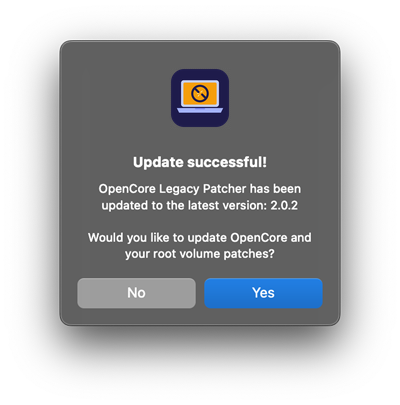
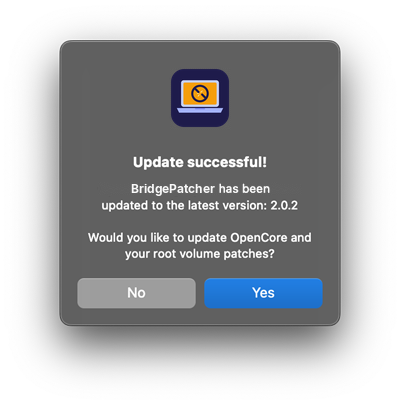
Remove Apple's wallpapers and Dortania's app name from images; OCR check in License Guard
Images:
- macos-monterey/ventura/sonoma/macos-sequoia/macos-tahoe: Apple's wallpaper banners
  replaced with own artwork (generated gradients, Inter font), same sizes.
- 16 screenshots/banners: "OpenCore Legacy Patcher (T2)" -> "BridgePatcher"
  (support banners, installer/permission/update dialogs, root patch dialog,
  main menu help text). Copyright lines are left untouched on purpose.

License Guard:
- New OCR check (tesseract): an image that shows "OpenCore Legacy Patcher"
  is a violation. Lines with a copyright notice are skipped (the upstream
  notice must stay); technical names without spaces (OCLP-Version,
  OpenCore-Legacy-Patcher repo/folder, URLs) are not matched.
- Workflow installs tesseract-ocr; OCR/artwork results are cached per blob
  with actions/cache so later runs only scan new or changed images.

Changed region(s): [[0.24, 0.4444, 0.75, 0.5037]]

diff --git a/.github/scripts/license_guard.py b/.github/scripts/license_guard.py
@@ -227,6 +227,66 @@ def find_embedded(data, known_bits):
     return {k: (d, round(sz / scale), round(x / scale), round(y / scale)) for k, (d, sz, x, y) in best.items()}
 
 
+# The upstream app's NAME shown inside an image (screenshots of Dortania's app, banners):
+# "OpenCore Legacy Patcher" (also "... T2" / "...-T2"). Found with OCR (tesseract), so it only runs
+# where tesseract is installed. Lines with a copyright notice are skipped on purpose - the upstream
+# notice ("Copyright © 2020-2026 Dortania and OpenCore Legacy Patcher contributors") must stay.
+# Technical identifiers written without spaces (OCLP-Version, OpenCore-Legacy-Patcher repo/folder,
+# Dortania's URLs) are not matched: they are literal names, not the product name.
+IMG_NAME_RE = re.compile(r"(?i)\bOpen\s?Core\s+Legacy\s+Patcher\b")
+IMG_NAME_WRAP = (re.compile(r"(?i)\bOpen\s?Core(\s+Legacy)?\s*$"), re.compile(r"(?i)^\s*(Legacy\s+)?Patcher\b"))
+IMG_COPYRIGHT_RE = re.compile(r"(?i)(©|\(c\))\s*\d|copyright|contributors")
+OCR_VERSION = 1   # bump to invalidate cached OCR results after changing the OCR settings
+
+
+def ocr_lines(data):
+    """Text lines in an image (normal + inverted pass, so light-on-dark text is read too)."""
+    from PIL import Image, ImageOps
+    with Image.open(io.BytesIO(data)) as im:
+        im.load()
+        im = im.convert("RGBA")
+    base = Image.new("RGBA", im.size, (255, 255, 255, 255))
+    base.alpha_composite(im)   # translucent dialogs: read them as shown on a light page
+    g = base.convert("L")
+    s = 3 if max(g.size) <= 1200 else 2 if max(g.size) <= 1800 else 1   # small UI text needs upscaling
+    if s > 1:
+        g = g.resize((g.width * s, g.height * s), Image.LANCZOS)
+    passes = []
+    for img in (g, ImageOps.invert(g)):
+        buf = io.BytesIO()
+        img.save(buf, "PNG")
+        r = subprocess.run(["tesseract", "stdin", "stdout", "--psm", "11", "tsv"], input=buf.getvalue(),
+                           capture_output=True, env={**os.environ, "OMP_THREAD_LIMIT": "1"})
+        lines = {}
+        for row in r.stdout.decode("utf-8", "replace").splitlines()[1:]:
+            c = row.split("\t")
+            if len(c) == 12 and c[0] == "5" and c[11].strip() and float(c[10]) > 0:
+                lines.setdefault((int(c[2]), int(c[3]), int(c[4])), []).append(c[11].strip())
+        passes.append([" ".join(v) for _, v in sorted(lines.items())])
+    return passes
+
+
+def find_old_name_in_image(passes):
+    hits = []
+    for lines in passes:
+        for i, line in enumerate(lines):
+            if IMG_COPYRIGHT_RE.search(line):
+                continue
+            nxt = lines[i + 1] if i + 1 < len(lines) else ""
+            if IMG_NAME_RE.search(line) or (IMG_NAME_WRAP[0].search(line) and IMG_NAME_WRAP[1].search(nxt)
+                                            and not IMG_COPYRIGHT_RE.search(nxt)):
+                if line not in hits:
+                    hits.append(line)
+    return hits
+
+
+def tesseract_available():
+    try:
+        return subprocess.run(["tesseract", "--version"], capture_output=True).returncode == 0
+    except FileNotFoundError:
+        return False
+
+
 def _load_cache():
     import json
     try:
@@ -261,7 +321,32 @@ def scan_artwork(head, add):
         embedded_bits = {}
         add("warning", "-", "Embedded artwork check skipped: numpy is not installed")
     cache = _load_cache()
-    for row in git("ls-tree", "-r", "-l", head).splitlines():
+    rows = git("ls-tree", "-r", "-l", head).splitlines()
+    ocr_on = tesseract_available()
+    if not ocr_on:
+        add("warning", "-", "Image text check skipped: tesseract is not installed")
+    else:
+        # OCR is slow, so run all uncached images in parallel up front (tesseract is a subprocess).
+        from concurrent.futures import ThreadPoolExecutor
+        todo = {}
+        for row in rows:
+            meta, path = row.split("\t", 1)
+            _, kind, sha, size = meta.split()
+            if (kind == "blob" and not is_self(path) and size != "-" and int(size) <= ART_MAX_BYTES
+                    and path.lower().endswith(IMAGE_EXT) and f"ocr{OCR_VERSION}:{sha}" not in cache):
+                todo[sha] = path
+
+        def run(sha):
+            data = subprocess.run(["git", "cat-file", "blob", sha], capture_output=True, check=True).stdout
+            try:
+                return sha, ocr_lines(data)
+            except Exception:
+                return sha, [[], []]
+
+        with ThreadPoolExecutor(max_workers=os.cpu_count() or 2) as ex:
+            for sha, passes in ex.map(run, todo):
+                cache[f"ocr{OCR_VERSION}:{sha}"] = passes
+    for row in rows:
         meta, path = row.split("\t", 1)
         _, kind, sha, size = meta.split()
         if kind != "blob" or is_self(path) or size == "-" or int(size) > ART_MAX_BYTES:
@@ -287,6 +372,13 @@ def scan_artwork(head, add):
                     add("warning", path, f"Probably contains {art['name']}",
                         [f"  Similar to {art['holder']}'s artwork (distance {d}/256).",
                          "  Check by hand; if it embeds the artwork, replace it."])
+            if ocr_on:
+                names = find_old_name_in_image(cache.get(f"ocr{OCR_VERSION}:{sha}", [[], []]))
+                if names:
+                    add("violation", path, "Upstream app name in image (OpenCore Legacy Patcher)",
+                        [f"  Text read in the image: {show(n)}" for n in names[:3]] +
+                        ["  Screenshots/banners must show BridgePatcher, not Dortania's app name.",
+                         "  Retake the screenshot or edit the text. Copyright lines are not affected."])
             if not embedded_bits:
                 continue
             if sha in cache:
@@ -480,8 +572,9 @@ def main():
             "the license text in redistributed source (e.g. BSD 3-Clause, clause 1). Adding your own "
             "copyright line *alongside* the existing ones is fine; replacing or removing them is not. "
             "Year bumps like `2020-2024` → `2020-2026` are ignored.", "",
-            "Artwork such as Dortania's OpenCore Legacy Patcher icon or Apple's System Settings icon is "
-            "not covered by the code license and must not be shipped or hotlinked; use your own artwork.",
+            "Artwork such as Dortania's OpenCore Legacy Patcher icon, Apple's System Settings icon or Apple's "
+            "macOS wallpapers is not covered by the code license and must not be shipped or hotlinked; use your "
+            "own artwork. Screenshots and banners must not show Dortania's app name either.",
             "", "</details>"]
 
     report = "\n".join(out) + "\n"
